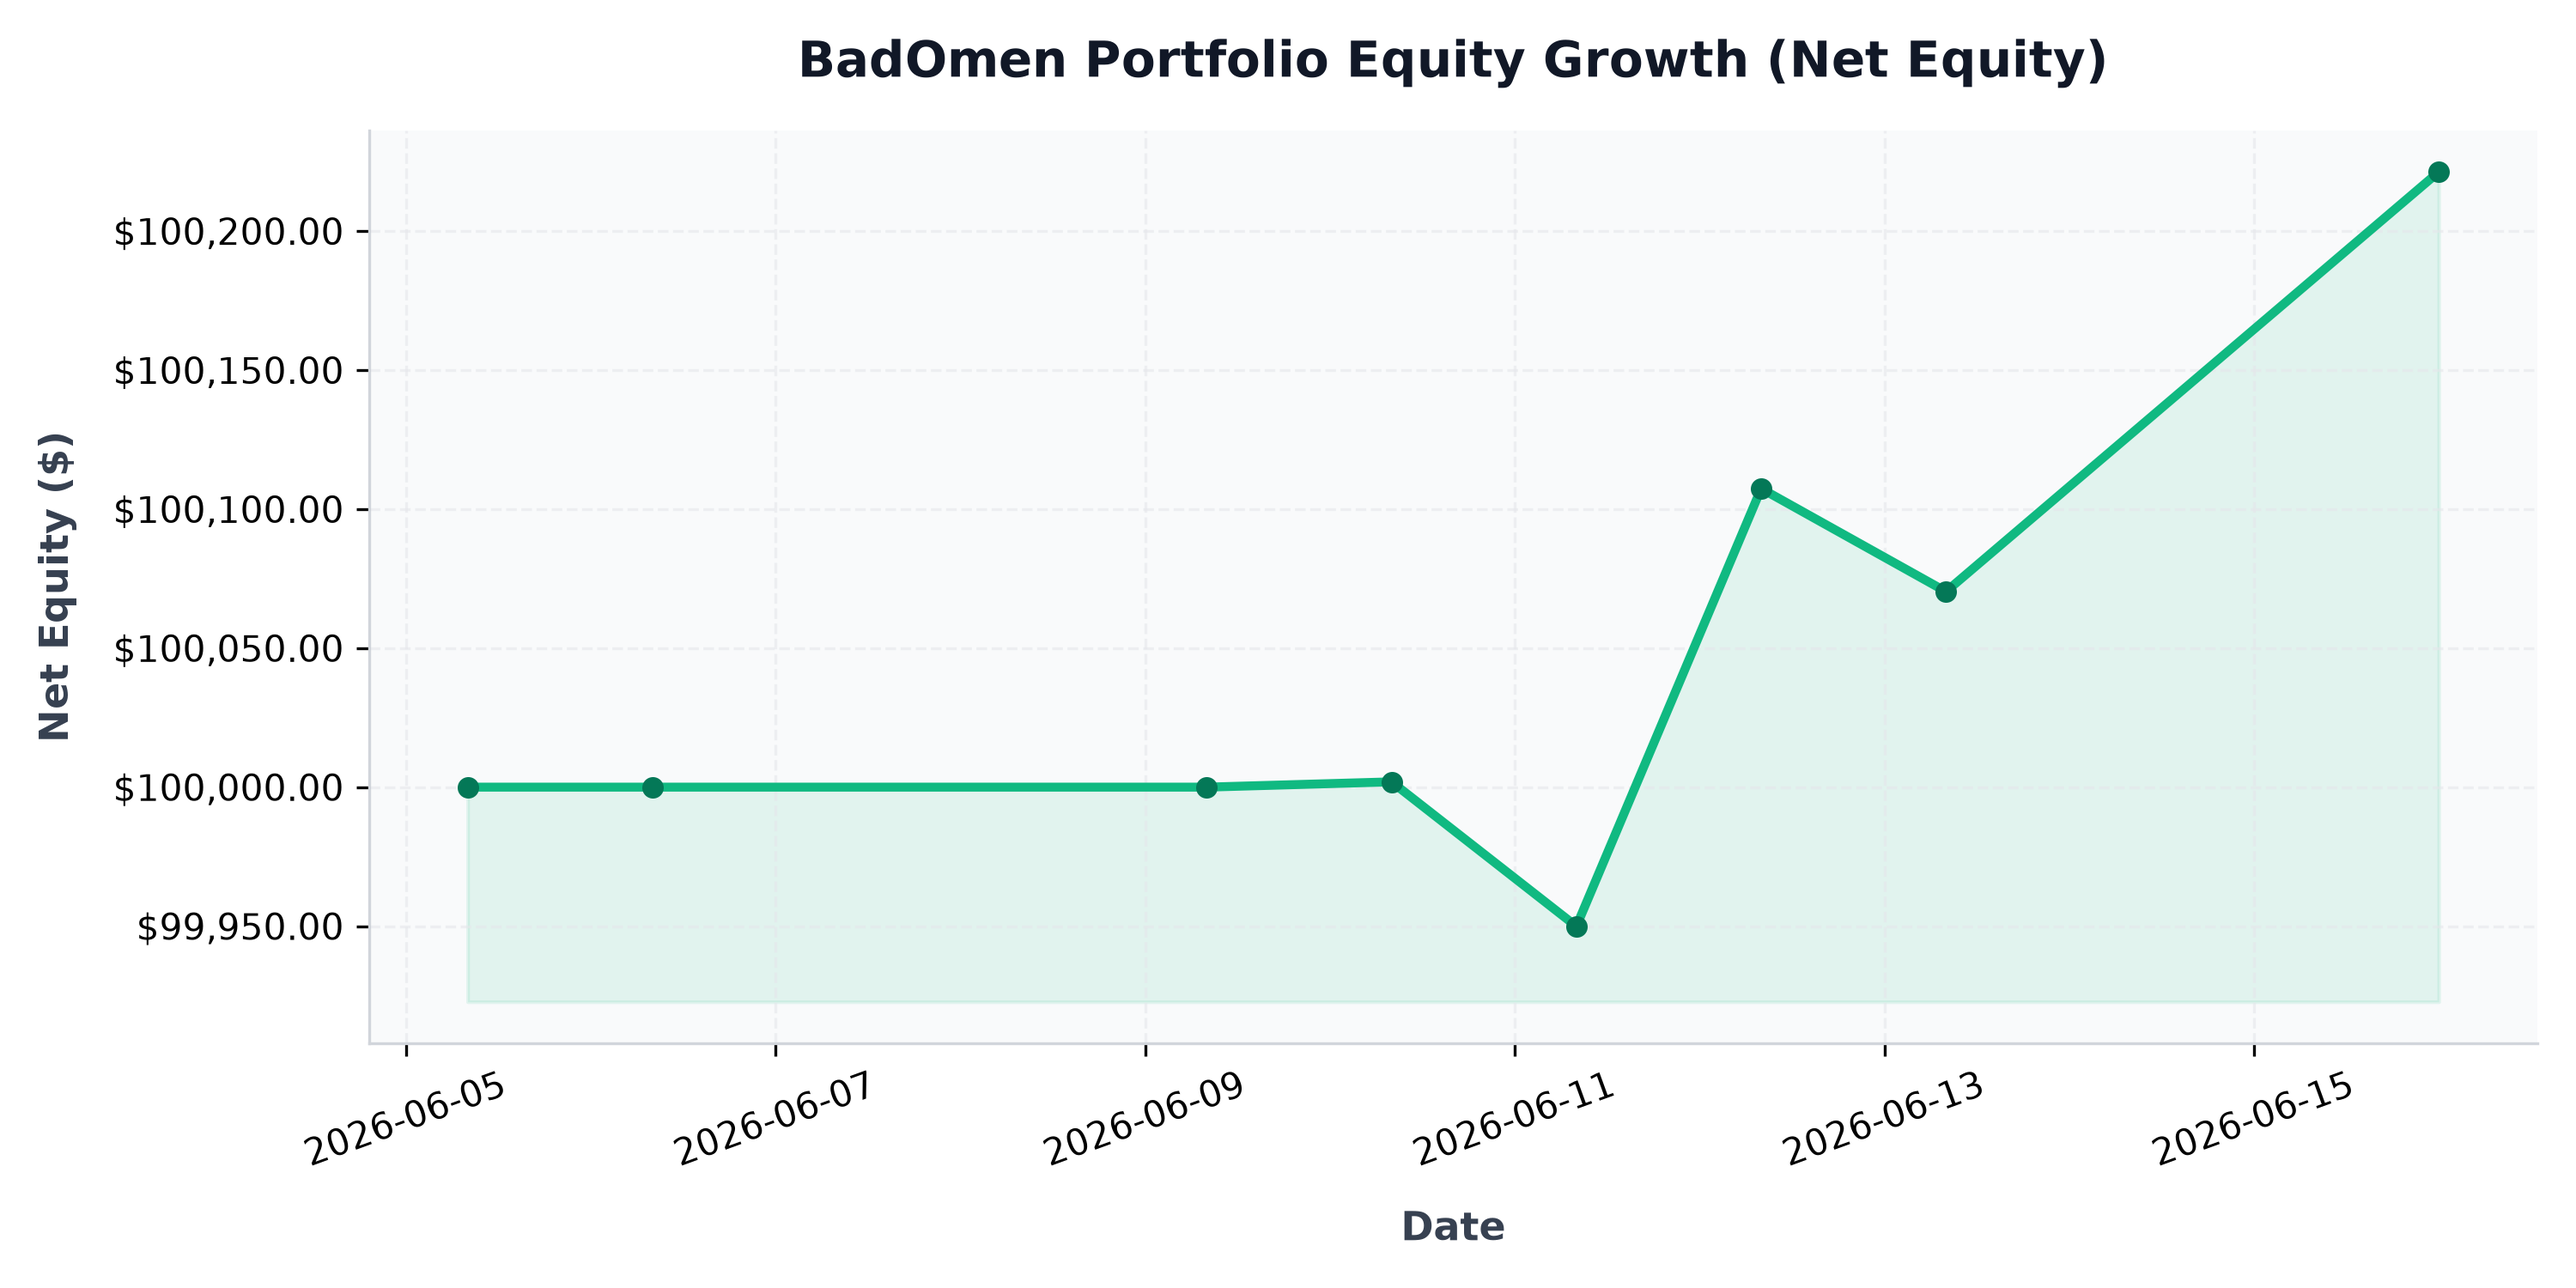
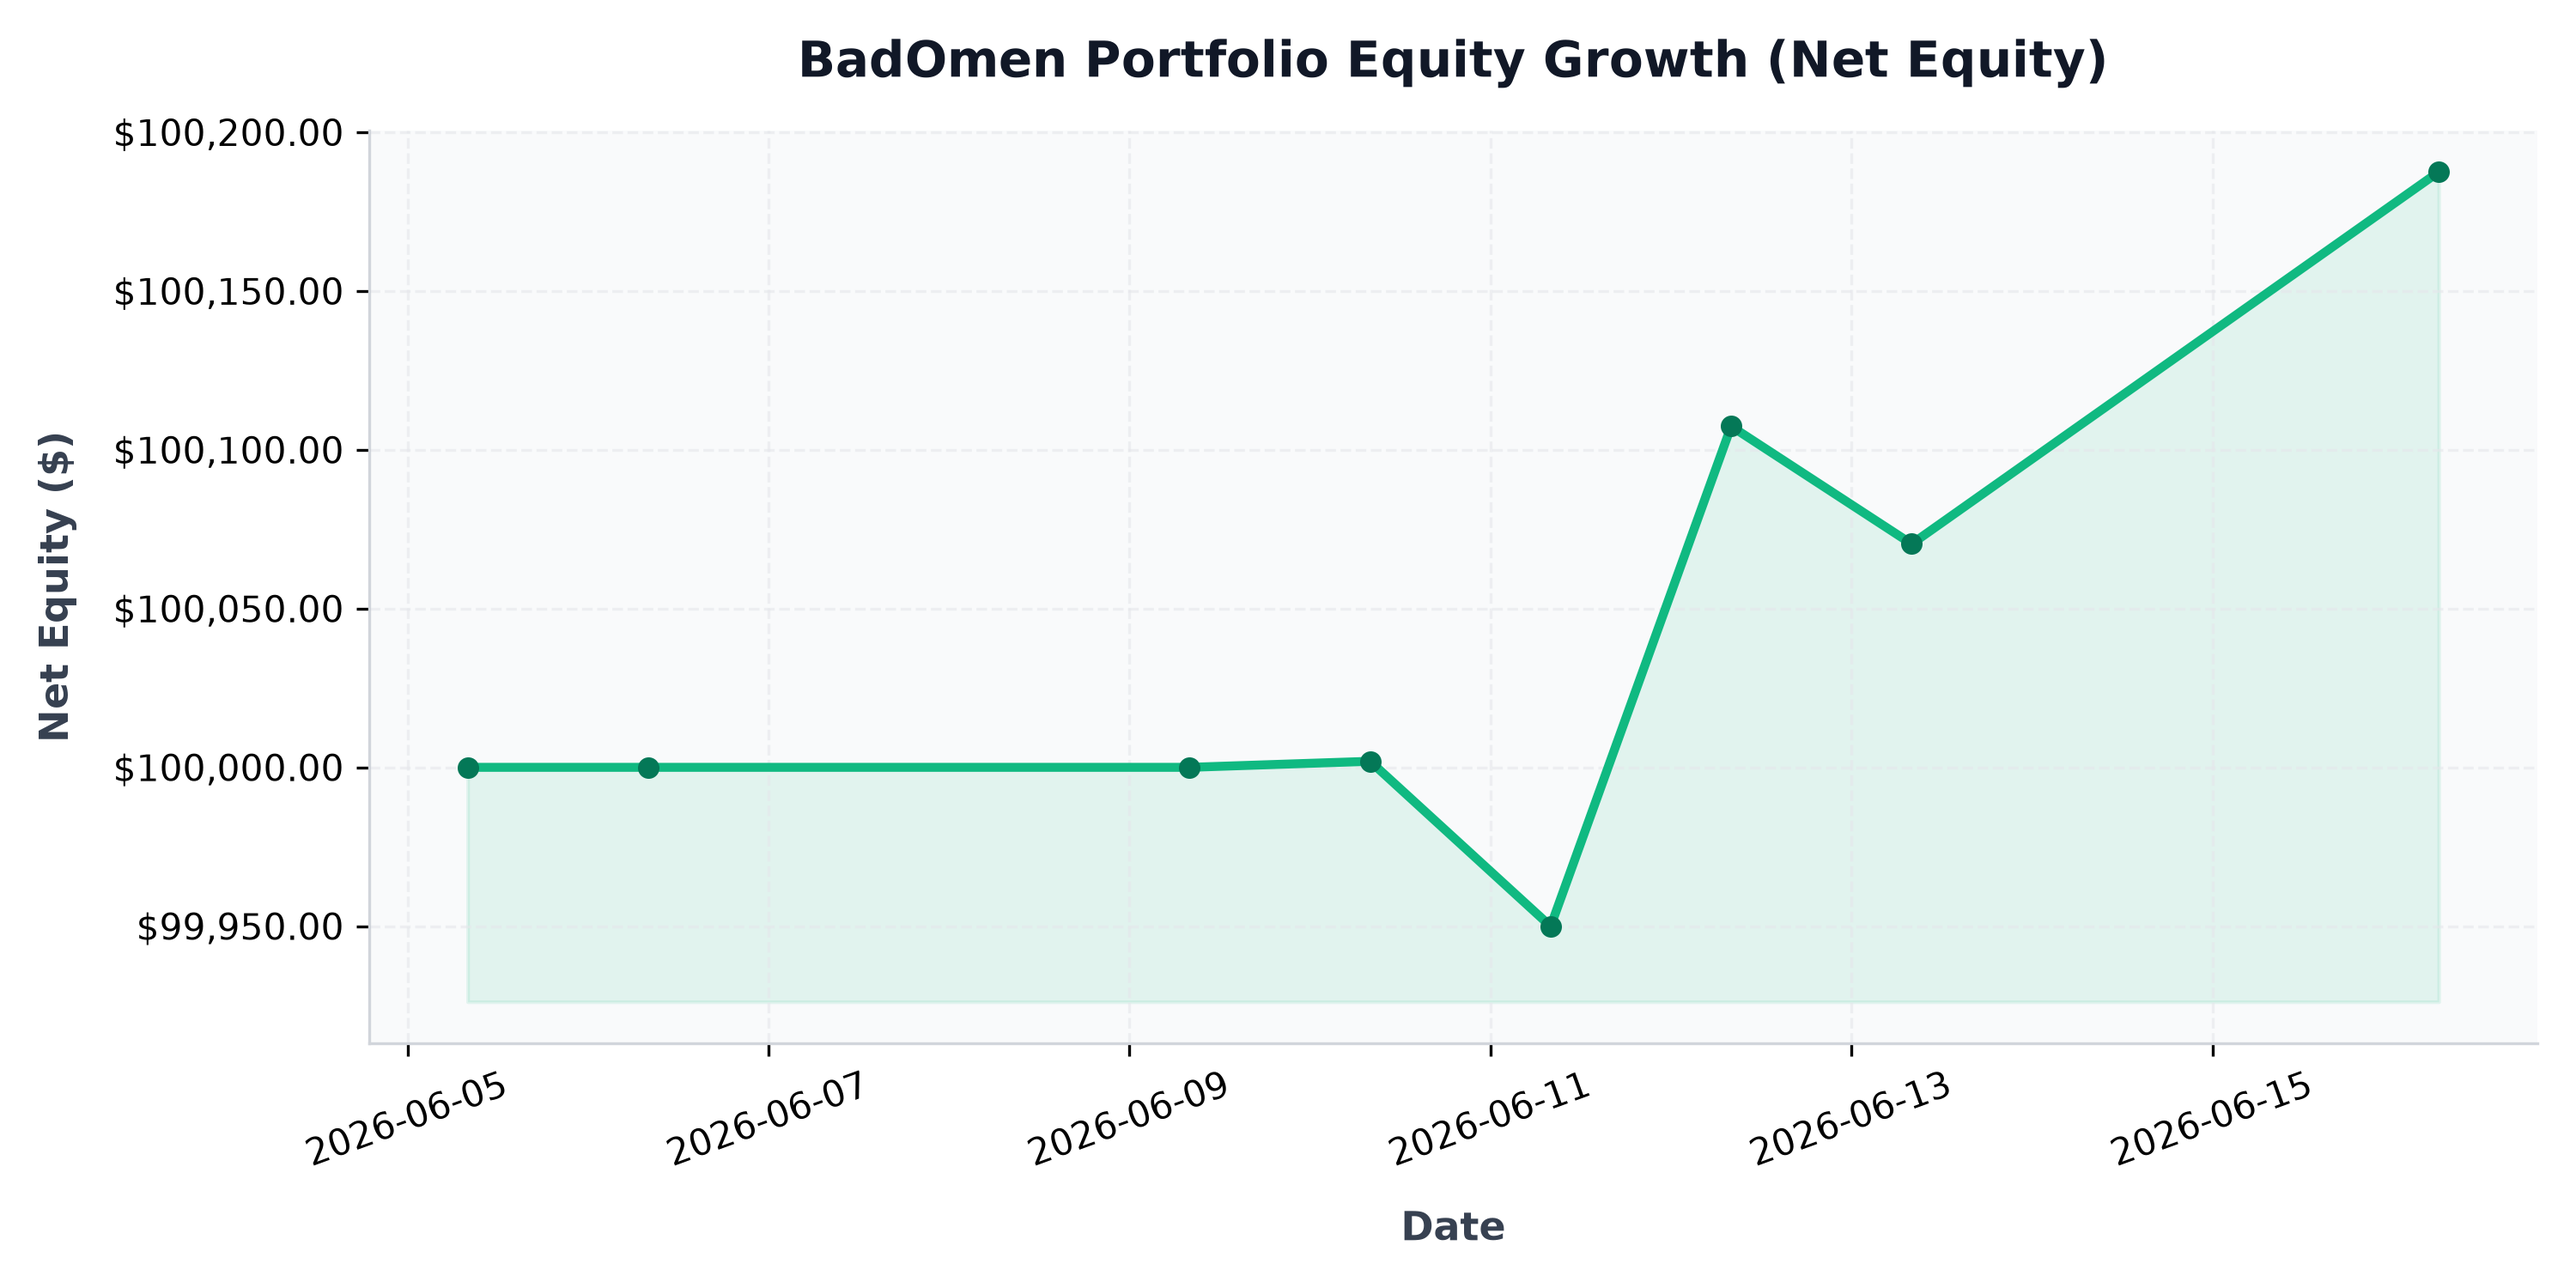
auto: daily portfolio status update - 2026-06-16 06:05:10

diff --git a/src/content/posts/portfolio-performance.md b/src/content/posts/portfolio-performance.md
@@ -1,6 +1,6 @@
 ---
 title: "BadOmen Algorithmic Portfolio Performance & PnL Report"
-pubDatetime: 2026-06-16T00:00:13.673611+08:00
+pubDatetime: 2026-06-16T06:05:10.710913+08:00
 description: "Live performance metrics, active holdings, and historic equity curve for the BadOmen automated paper trading portfolio."
 featured: true
 draft: false
@@ -16,11 +16,11 @@ Welcome to the live performance dashboard for **BadOmen**, our automated algorit
 ## 📊 Portfolio Summary
 | Performance Metric | Value | description |
 | :--- | :--- | :--- |
-| **Net Portfolio Equity** | **$100,221.31** | Total current liquidation value of cash and stock holdings |
-| **Total Unrealized P&L** | 🟢 **+$232.17** (+0.23%) | Total return of current open holdings |
+| **Net Portfolio Equity** | **$100,187.51** | Total current liquidation value of cash and stock holdings |
+| **Total Unrealized P&L** | 🟢 **+$198.56** (+0.20%) | Total return of current open holdings |
 | **Cash Balance** | $95,192.59 | Idle reserve currency available for limit orders |
-| **Buying Power** | $373,435.36 | Margin-backed buying power for entry allocations |
-| **Report Updated** | `2026-06-16 00:00:13 (SGT)` | Timestamp of daily execution and sync run |
+| **Buying Power** | $373,340.72 | Margin-backed buying power for entry allocations |
+| **Report Updated** | `2026-06-16 06:05:10 (SGT)` | Timestamp of daily execution and sync run |
 
 ## 📈 Net Equity Growth Curve
 The chart below illustrates the historical performance of the account starting from our baseline capital funding of $100,000.00.
@@ -30,12 +30,12 @@ The chart below illustrates the historical performance of the account starting f
 ## 💼 Current Position Holdings
 | Ticker | Shares Owned | Average Entry Cost | Current Price | Unrealized P&L | Return (%) |
 | :--- | :--- | :--- | :--- | :--- | :--- |
-| **AVGO** | 1 | $385.71 | $393.70 | 🟢 +$7.99 | +2.07% |
-| **ITRI** | 12 | $81.80 | $81.06 | 🔴 $-8.94 | -0.91% |
-| **META** | 1 | $568.17 | $599.63 | 🟢 +$31.46 | +5.54% |
-| **NU** | 85 | $11.60 | $12.51 | 🟢 +$77.47 | +7.86% |
-| **ORCL** | 5 | $181.95 | $194.28 | 🟢 +$61.65 | +6.78% |
-| **SMCI** | 33 | $29.25 | $31.14 | 🟢 +$62.53 | +6.48% |
+| **AVGO** | 1 | $385.71 | $394.85 | 🟢 +$9.14 | +2.37% |
+| **ITRI** | 12 | $81.80 | $80.71 | 🔴 $-13.08 | -1.33% |
+| **META** | 1 | $568.17 | $593.30 | 🟢 +$25.13 | +4.42% |
+| **NU** | 85 | $11.60 | $12.42 | 🟢 +$69.82 | +7.08% |
+| **ORCL** | 5 | $181.95 | $192.64 | 🟢 +$53.43 | +5.87% |
+| **SMCI** | 33 | $29.25 | $30.89 | 🟢 +$54.12 | +5.61% |
 
 ## 🔴 Recent Realized Trades
 | Ticker | Shares Sold | Entry Price | Exit Price | Strategy Trigger | Realized Return | Exit Date |
